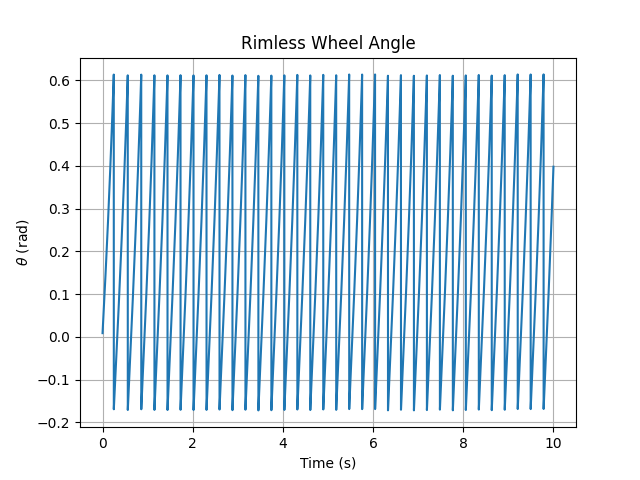
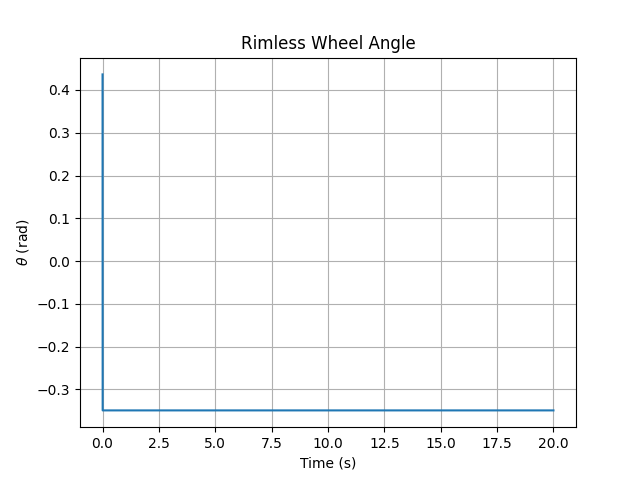
ee

diff --git a/assignment_1/rimless_wheel_sanity.py b/assignment_1/rimless_wheel_sanity.py
@@ -2,21 +2,22 @@ import matplotlib.pyplot as plt
 import numpy as np
 import rimless_wheel as model
 
-# ============================================================
-# Sanity Check 1: Full rimless-wheel simulation
-# ============================================================
+# Sanity Check 1: Angle vs time plot
 
 params = model.generate_params()
-params["slope_angle"] = np.deg2rad(10)
+params["slope_angle"] = np.deg2rad(20)
 
-initial_state = np.array([np.deg2rad(0.5), 2.0])
+initial_state = np.array([np.deg2rad(25), 0])
 
 times, angles, angular_velocities = model.simulate_rimless_wheel(
     initial_state,
     params,
     time_step=0.001,
-    total_time=10.0
+    total_time=20.0
 )
+
+print("theta:", np.rad2deg(angles[:10]))
+print("theta_dot:", angular_velocities[:10])
 
 plt.figure()
 plt.plot(times, angles)
@@ -28,50 +29,63 @@ plt.savefig("Rimless Wheel Angle.png")
 plt.close()
 
 
-# ============================================================
-# Sanity Check 2: Impact/reset
-# ============================================================
+# Sanity Check 2: theta vs theta_dot
 
-alpha = np.pi / params["num_spokes"]
-gamma = params["slope_angle"]
+plt.figure()
 
-impact_angle = -gamma + 2 * alpha
+plt.plot(angles, angular_velocities)
 
-# Artificial pre-impact state
-theta_dot_before = 2.0
-before = np.array([impact_angle, theta_dot_before])
+plt.xlabel(r"$\theta$ (rad)")
+plt.ylabel(r"$\dot{\theta}$ (rad/s)")
+plt.title("Rimless Wheel Phase Portrait")
+plt.grid()
 
-# Apply the reset
-after = model.spoke_reset(before, params)
+plt.savefig("Rimless Wheel Phase Portrait.png")
+plt.close()
 
-# Calculate expected values
-expected_theta = impact_angle - 2 * alpha
-expected_theta_dot = theta_dot_before * np.cos(2 * alpha)
+'''
+initial_conditions = [
+    (20, 0),
+    (24, 0),
+    (25, 0),
+    (26, 0),
+    (30, 0),]
 
-print("\nImpact/reset sanity check:")
+plt.figure()
 
-print(
-    f"Before: theta = {np.rad2deg(before[0]):.2f}°, "
-    f"theta_dot = {before[1]:.3f} rad/s"
-)
+for theta_deg, theta_dot in initial_conditions:
+    params = model.generate_params()
 
-print(
-    f"After:  theta = {np.rad2deg(after[0]):.2f}°, "
-    f"theta_dot = {after[1]:.3f} rad/s"
-)
+    initial_state = np.array([
+        np.deg2rad(theta_deg),
+        theta_dot
+    ])
 
-print(
-    f"Expected theta = {np.rad2deg(expected_theta):.2f}°"
-)
+    times, angles, angular_velocities = model.simulate_rimless_wheel(
+        initial_state,
+        params,
+        time_step=0.001,
+        total_time=20.0
+    )
 
-print(
-    f"Expected theta_dot = {expected_theta_dot:.3f} rad/s"
-)
+    plt.plot(
+        np.rad2deg(angles),
+        angular_velocities,
+        label=f"({theta_deg}°, {theta_dot})"
+    )
 
+plt.xlabel(r"$\theta$ (degrees)")
+plt.ylabel(r"$\dot{\theta}$ (rad/s)")
+plt.title("Rimless Wheel Phase Portrait")
+plt.legend()
+plt.grid()
+plt.savefig("Rimless Wheel Phase Portrait sweep.png")
+plt.close()
 
-# ============================================================
-# Sanity Check 3: Slope-angle sweep
-# ============================================================
+'''
+
+'''
+# Sanity Check 3: Slope angle sweep
 
 plt.figure()
 
@@ -112,3 +126,4 @@ plt.legend()
 plt.grid()
 plt.savefig("Rimless Wheel Slope Sweep.png")
 plt.close()
+'''

diff --git a/assignment_1/ROA_bruteforce.py b/assignment_1/ROA_bruteforce.py
@@ -1,0 +1,54 @@
+import matplotlib.pyplot as plt
+import numpy as np
+import rimless_wheel as model
+
+from integrators import rk4
+
+params = model.generate_params()
+
+params["slope_angle"] = np.deg2rad(10)
+
+params["num_spokes"] = 8
+
+
+# State-space grid
+theta_values = np.linspace(-np.pi, np.pi, 50)
+theta_dot_values = np.linspace(-5.0, 5.0, 50)
+
+results = np.zeros(
+    (len(theta_values), len(theta_dot_values))
+)
+
+def get_impact_velocities(initial_state, params, time_step, total_time):
+    """
+    Simulate the rimless wheel and record the angular velocity
+    immediately before each impact.
+    """
+
+    num_steps = int(total_time / time_step)
+
+    wheel_state = initial_state.copy()
+    impact_velocities = []
+
+    current_time = 0.0
+
+    for step in range(num_steps):
+
+        if detect_impact(wheel_state, params):
+            # Record velocity immediately before impact
+            impact_velocities.append(wheel_state[1])
+
+            # Apply impact reset
+            wheel_state = spoke_reset(wheel_state, params)
+
+        wheel_state = rk4(
+            current_time,
+            wheel_state,
+            time_step,
+            rimless_wheel_continuous,
+            params
+        )
+
+        current_time += time_step
+
+    return np.array(impact_velocities)

diff --git a/assignment_1/rimless_wheel.py b/assignment_1/rimless_wheel.py
@@ -43,7 +43,7 @@ def detect_impact(wheel_state, params):
 
     impact_angle = -gamma + 2 * alpha
 
-    return theta >= impact_angle
+    return theta >= impact_angle and theta_dot > 0
 
 
 def spoke_reset(wheel_state, params):
@@ -81,7 +81,9 @@ def simulate_rimless_wheel(initial_state, params, time_step, total_time):
 
         # Check for an impact
         if detect_impact(wheel_state, params):
+
             wheel_state = spoke_reset(wheel_state, params)
+
 
         # Integrate the continuous dynamics
         wheel_state = rk4(
